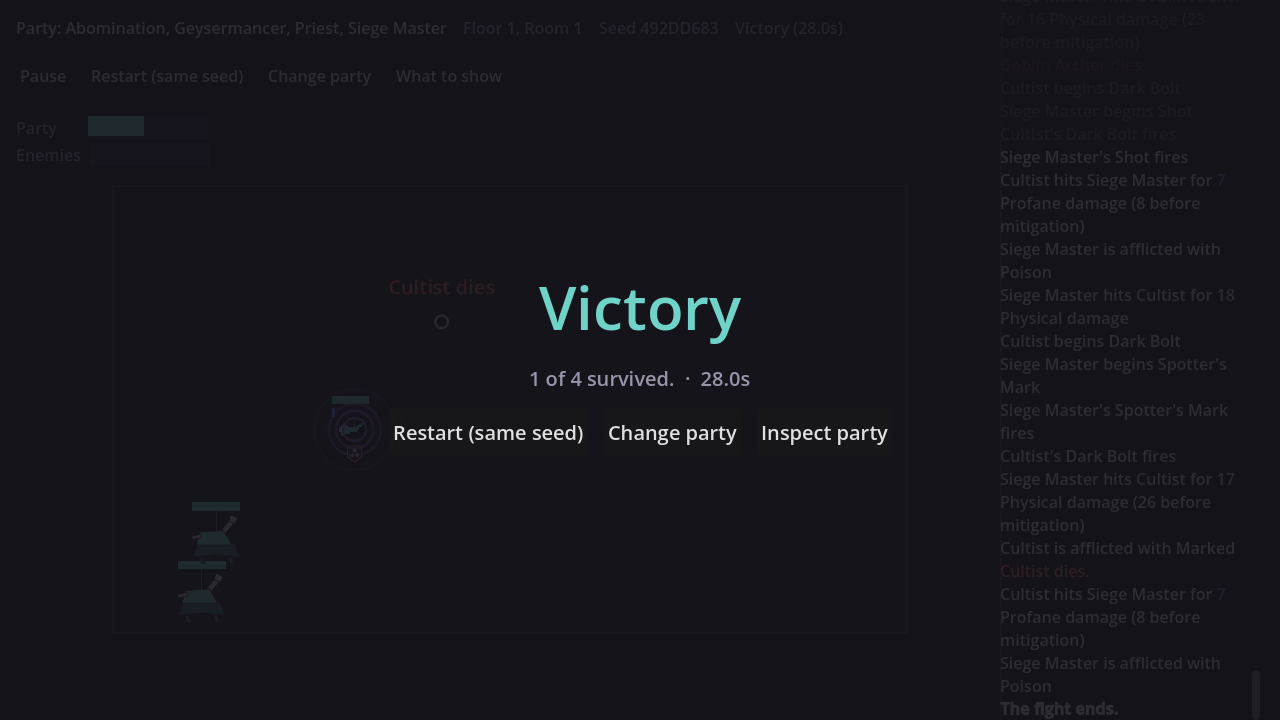
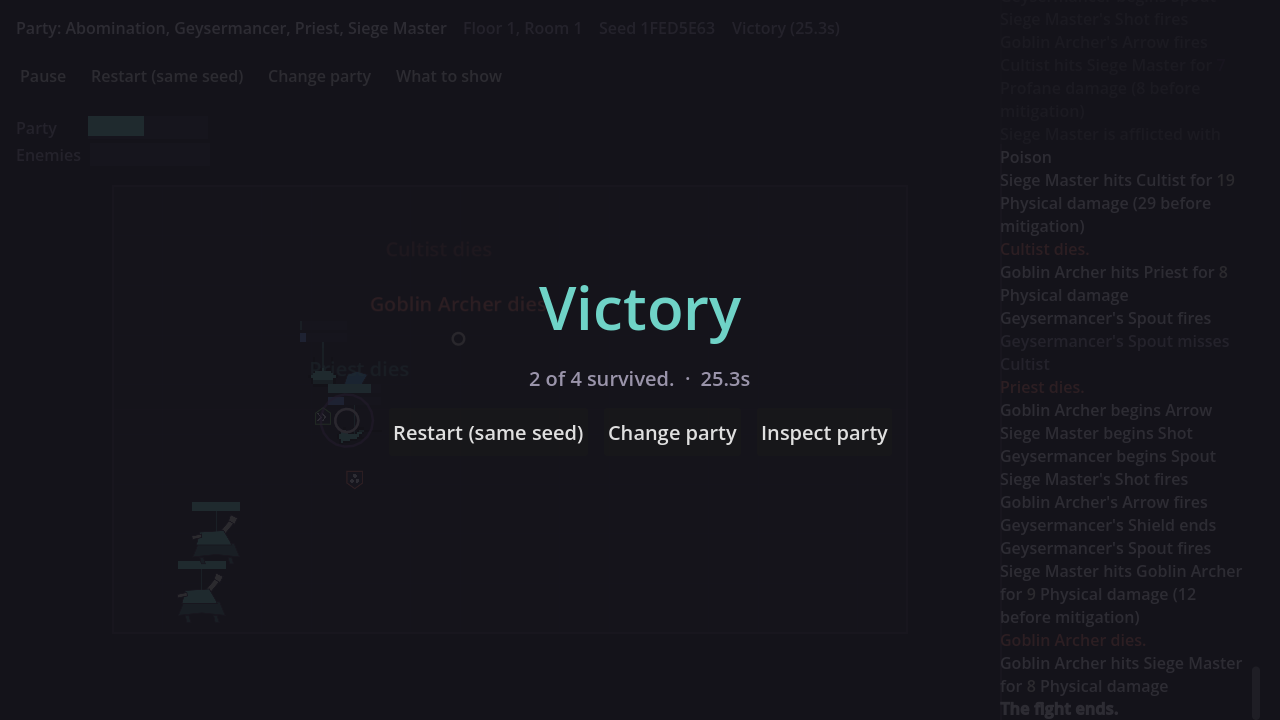
RELEASE-3.md, and screenshots taken on the build it describes
927 tests, no open pull requests, every screen swept and reaching a real
fight. Grouped by what the player asked for, with a known-and-not-fixed
list so they do not spend notes on things already caught.

The honest headline is in the last section: most of this release serves
"watch a fight without pausing", and the "and why" half of their own
definition of done is still missing.

Agent: rook

diff --git a/RELEASE-3.md b/RELEASE-3.md
@@ -1,0 +1,44 @@
+# Release 3
+
+```
+"D:/Projects/Claudeguise-team/tools/godot/Godot_v4.7.1-stable_win64.exe" --path D:/Projects/Claudeguise
+```
+
+Forward slashes on purpose: an unquoted Windows path gets eaten by the shell.
+
+**927 tests, no open pull requests, every screen swept and working.**
+
+## What is new since you played
+
+### You can reach the game now
+- **Five rooms, and you pick one.** Open ground, a colonnade, a burn pit, a chokepoint with a tar pit, and the Rat King's nest. **Three of the four existing rooms had been unreachable** — the picker did not exist and party select was hardcoded to one room.
+- **You place your pawns before the fight**, on the terrain, with the enemy line visible. Asked for three times.
+
+### The fight reads
+- **Damage numbers and name plates are off by default**, both re-enableable under "What to show".
+- **Health bars carry team colour** and fit the drawn body rather than the collision radius — a goblin's bar went from 33px to 20px against an 18.5px body.
+- **Status badges are 16px, not 8.7px**, in a row that got *narrower* by reserving two slots instead of four.
+- **Bleed no longer reports itself as terrain damage.** The Rat King's nest was printing 951 false "damage from the ground" lines per twenty fights, in a room with no terrain.
+- **Every event kind now prints something or is on an explicit silent list**, so a mechanism can no longer be added, fire in real fights, and render nothing.
+
+### New mechanics
+- **Statuses have real sources.** Burn from Scald, consumed by Blast for bonus damage scaled off the burn. Stun from the Brute, and **stun now interrupts a cast** — wind-up lost, resource not refunded. Bleed stacks infinitely from the rats. Slow from a tar pit.
+- **Three specialty enemies**: a Brute that stuns and taunts, a Stalker that marks, and rats that bleed. Plus **the Rat King**, floor 1's miniboss.
+- **Taunt is a compulsion** — a taunted pawn abandons its plan and attacks the taunter. Cleansing frees it.
+- **Rage and energy start at 0**, mana starts full, and rage is earned by taking hits.
+- **Units step around fire** rather than walking through it.
+
+## Known and not fixed
+
+- **The Rat King's swarm is not a swarm.** It is in range and *forbidden to fire* 40-60% of the fight, because the ranged firing band is narrow and it moves slowly. Four rats at a time, not a horde.
+- **`stalker_dart` has never fired**, because the action filter ignores cooldowns.
+- **The block, and both sustain events, never occur** — the log lines exist, the content that would trigger them does not.
+- **The log still never says which plan row fired.** You can see *what* a pawn did and not *why*, which is the demanding half of your own definition of done.
+- **No sound**, though the hooks and placeholders are in.
+- **844x390 is still bad.** Badges are 8.7px there.
+
+## What I would look at
+
+Your finish line: *watch a fight without pausing and broadly follow what happened and why.* Most of this release is aimed at the first half. **The "and why" is still missing** and is the largest thing left.
+
+Two decisions are waiting on you, neither blocking: whether The Warden should be pickable from the menu, and whether a dropped-in status PNG may replace the colourblind-safe plate.
